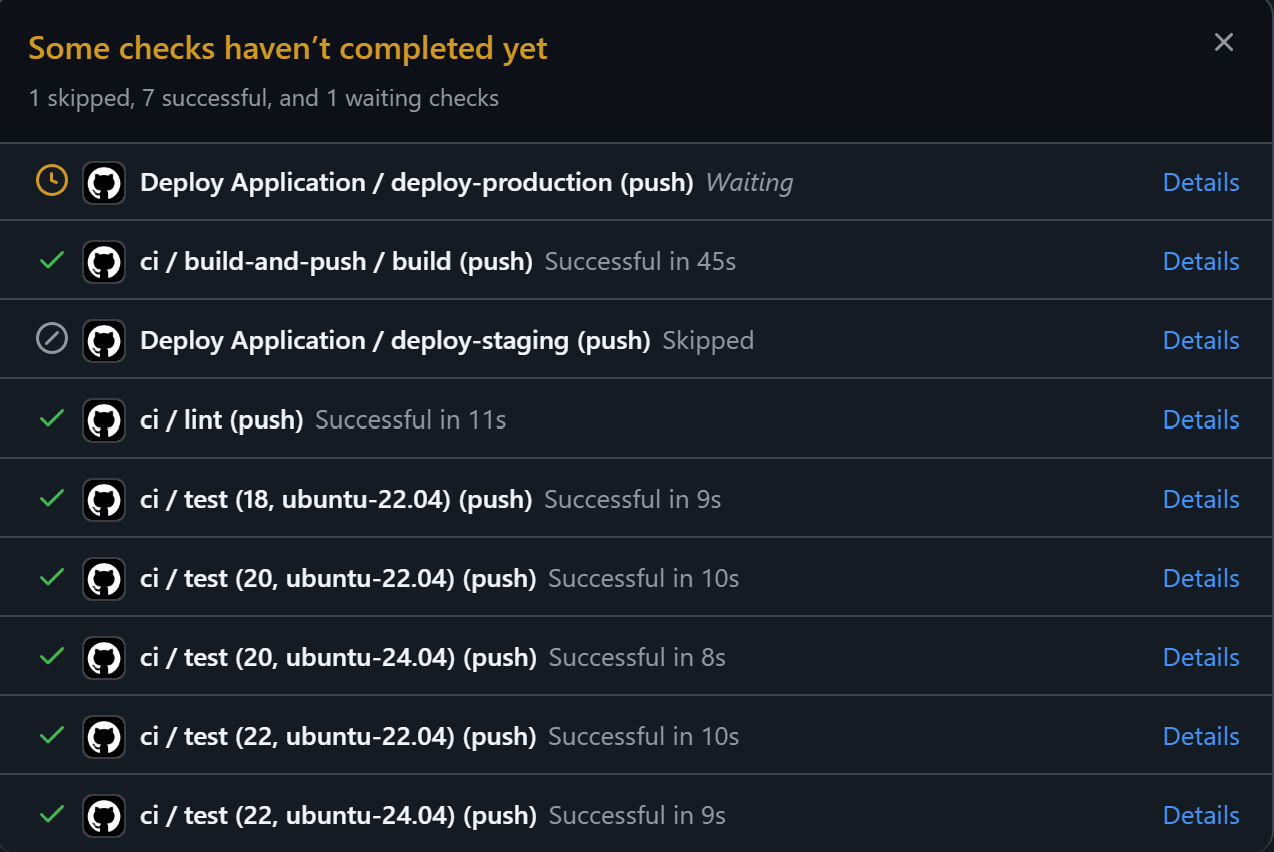
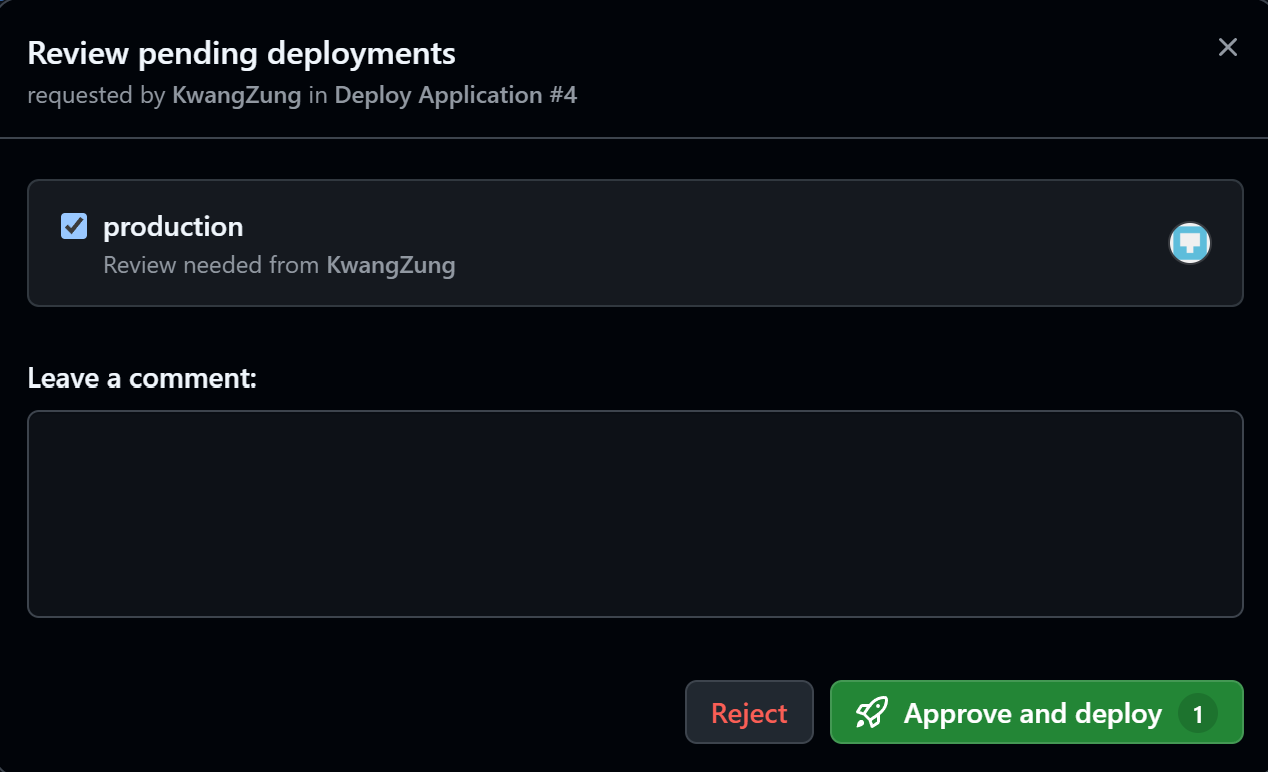
feat(w2d7): Complete Part D - Tag-based release

diff --git a/Week2/Day7-CICD-Advanced/README.md b/Week2/Day7-CICD-Advanced/README.md
@@ -15,6 +15,7 @@ Thực hành CI/CD nâng cao với GitHub Actions:
 - **Part A:** Sử dụng Matrix strategy để cấu hình job test chạy song song trên nhiều phiên bản Node.js và Ubuntu, đồng thời loại trừ một số tổ hợp cụ thể.
 - **Part B:** Tách workflow ra thành file dùng chung (Reusable workflow) để tái sử dụng logic đóng gói và quét bảo mật.
 - **Part C:** Cấu hình môi trường (Environment) và thiết lập cơ chế duyệt thủ công (Required reviewers) trên giao diện GitHub.
+- **Part D:** Tự động tạo bản phát hành (GitHub Release) và xuất bản Docker image với tên thẻ (tag) động mỗi khi tạo mốc phiên bản mới.
 
 ## 2. Cách chạy
 
@@ -55,6 +56,20 @@ git push origin HEAD
 # 6. Tạo một tag mới để kích hoạt quy trình trên môi trường production
 git tag v1.0.0
 git push origin v1.0.0
+```
+
+### Part D - Tag-based release
+```bash
+# 1. Tạo file .github/workflows/release.yml thiết lập sự kiện kích hoạt bằng thẻ.
+# 2. Cấu hình để tái sử dụng file ở Part B và bổ sung bước xuất bản sử dụng softprops/action-gh-release.
+# 3. Commit và đẩy cấu hình mới lên repo.
+git add .
+git commit -m "feat(w2d7): add tag-based release workflow"
+git push origin HEAD
+
+# 4. Tạo tag mới và push lên Github (Sẽ tự động kích hoạt cả Part C và Part D)
+git tag v1.0.1
+git push origin v1.0.1
 ```
 
 ## 3. Kết quả
@@ -102,6 +117,35 @@ git push origin v1.0.0
 - **Screenshot thiết lập Required Reviewers:**
     ![2 environments](./screenshots/pC-two-environments.png)
   ![Production Approval](./screenshots/pC-production-approval.png)
+
+### Part D - Tag-based release
+- **Cấu hình tệp `release.yml`:**
+  ```yaml
+  name: Release Application
+  on:
+    push:
+      tags:
+        - 'v*.*.*'
+  permissions:
+    contents: write
+    packages: write
+  jobs:
+    build-release-image:
+      uses: ./.github/workflows/reusable-build.yml
+      with:
+        image_name: demo-app
+        image_tag: ${{ github.ref_name }}
+    create-github-release:
+      needs: build-release-image
+      runs-on: ubuntu-latest
+      steps:
+        - uses: actions/checkout@v4
+        - uses: softprops/action-gh-release@v2
+          with:
+            generate_release_notes: true
+  ```
+- **Screenshot giao diện GitHub Releases:**
+  ![GitHub Release](./screenshots/pD-release-page.png)
 
 ## 4. Khó khăn & cách giải quyết
 - Vấn đề 1 → cách fix.